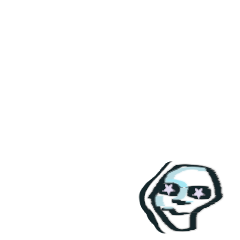
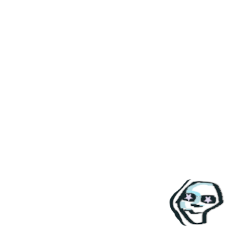
rotation update
- rotate the models
- rotate the camera in different ways (not done)
- add different scaling of models
- add ability to change transparency and size updating functions
- restructured the megarms

Changed region(s): [[0.5542, 0.6708, 0.9333, 0.9917]]

diff --git a/rarities.py b/rarities.py
@@ -2,6 +2,7 @@ from random import random, randint
 
 def generate():
     rarity = 100
+    #SPECIAL CASES:
     if random() > 0.995:
         minecraft = True
     else:
@@ -9,14 +10,14 @@ def generate():
 
     #Set probablity scores
     probs={
-        'model' :        (0.99, 0.4, 0),
+        'model' :        (0.995, 0.85, 0.5, 0),
         'snake' :        (0.98, 0.92, 0.75, 0.5, 0),
-        'speed' :        (0.85, 0.6, 0),
+        'speed' :        (0.99, 0.6, 0),
         'transparency' : (0.2, 0),
-        'color' :        (0.99, 0.96, 0.92, 0.88, 0.6, 0),
-        'spin' :         (0.99, 0.9, 0.7, 0),
+        'color' :        (0.995, 0.98, 0.97, 0.95, 0.92, 0.88, 0.3, 0),
+        'spin' :         (0.99, 0.9, 0),
         'texture' :      (0.99, 0.98, 0.95, 0),
-        'background' :   (0.6, 0.1, 0),
+        'background' :   (0.6, 0.3, 0),
         'mirror' :       (0.5, 0),
         'wireframe' :    (0.8, 0.3, 0),
         'sticker' :      (0.9999,0.999,0.995, 0.95, 0)
@@ -28,47 +29,60 @@ def generate():
     if minecraft:
         sizeNormalizer = 5
         modelType = 'box.egg'
+        scaleMod = (1,1,1)
     else:
         if modelSeed > probs['model'][0]:
             sizeNormalizer = 8
+            scaleMod = (1,1,1)
             modelType = 'monkey.egg'
         elif modelSeed > probs['model'][1]:
             sizeNormalizer = 2
+            scaleMod = (3,0.5,0.5)
+            modelType = 'Icosahedron.egg'
+        elif  modelSeed > probs['model'][2]:
+            sizeNormalizer = 2
+            scaleMod = (1,1,1)
             modelType = 'Icosahedron.egg'
         else:
-            sizeNormalizer = 5
+            sizeNormalizer = 4.5
+            scaleMod = (1,1,1)
             modelType = 'box.egg'
 
     #NUMBER OF MEGARMS, numNODES, SIZES
     snakeSeed = random()
     if snakeSeed > probs['snake'][0]:
         numSnakes=5
-        modelSize = sizeNormalizer*0.5
+        sizeMod = 0.6
         numNodes = randint(400,500)
     elif snakeSeed > probs['snake'][1]:
         numSnakes=4
-        modelSize = sizeNormalizer*0.85
+        sizeMod = 0.75
         numNodes = randint(300,400)
     elif snakeSeed > probs['snake'][2]:
         numSnakes=3
-        modelSize = sizeNormalizer*1
+        sizeMod = 1
         numNodes = randint(200,300)
     elif snakeSeed > probs['snake'][3]:
-        modelSize = sizeNormalizer*1.3
+        sizeMod = 1.1
         numNodes = randint(150,200)
         numSnakes=2
     else:
-        modelSize = sizeNormalizer*1.5
+        sizeMod = 1.2
         numNodes = randint(100,150)
         numSnakes=1
+
+    modelScale = (sizeMod * sizeNormalizer * scaleMod[0], sizeMod * sizeNormalizer * scaleMod[1], sizeMod * sizeNormalizer * scaleMod[2])
 
     speedSeed = random()
     if speedSeed > probs['speed'][0]: #SPARKLES
         speedRange = (-75,75)
+        modelSpin = 0
     elif speedSeed > probs['speed'][1]:
-        speedRange = (-15,15)
+        speedRange = (-10,10)
+        modelSpin = 2
     else:
-        speedRange = (-5,5)
+        speedRange = (-4,4)
+        modelSpin = 3.5
     lengthRange = (0,20)
 
     #COLORS
@@ -93,7 +107,21 @@ def generate():
         colors.append((0.1,0.475,0.3))
         colors.append((0.15,0.1,0.50))
         colors.append((.30,.1,0.5))
-    elif colorSeed > probs['color'][1]: #RAINBOW
+    elif colorSeed > probs['color'][1]: #zebra
+        colors.append((random(),random(),random()))
+        colors.append((random(),random(),random()))
+        colors.append((random(),random(),random()))
+        colors.append((random(),random(),random()))
+        colors.append((random(),random(),random()))
+        colors.append((random(),random(),random()))
+    elif colorSeed > probs['color'][2]: #8 randoms
+        colors.append((0,0,0))
+        colors.append((1,1,1))
+        colors.append((0,0,0))
+        colors.append((1,1,1))
+        colors.append((0,0,0))
+        colors.append((1,1,1))
+    elif colorSeed > probs['color'][3]: #RAINBOW
         colors.append((0.9,0,0))
         colors.append((0.9,0.4,0))
         colors.append((0.95,0.9,0.05))
@@ -112,7 +140,7 @@ def generate():
         colors.append((0.2,0.95,0.2))
         colors.append((0.2,0.2,0.95))
         colors.append((.55,.2,1))
-    elif colorSeed > probs['color'][2]: #RGB flash
+    elif colorSeed > probs['color'][4]: #RGB flash
         colors.append((0.1,0.2,0.35))
         colors.append((0.95,0.91,0.89))
         colors.append((1,0.4,0.25))
@@ -125,7 +153,7 @@ def generate():
         colors.append((0.95,0.91,0.89))
         colors.append((1,0.4,0.25))
         colors.append((1,0.82,0.2))
-    elif colorSeed > probs['color'][3]:
+    elif colorSeed > probs['color'][5]:
         colors.append((.55,.2,1))
         colors.append((0.9,0.4,0))
         colors.append((.55,.2,1))
@@ -134,10 +162,12 @@ def generate():
         colors.append((0.9,0.4,0))
         colors.append((.55,.2,1))
         colors.append((0.9,0.4,0))
-    elif colorSeed > probs['color'][4]:
+    elif colorSeed > probs['color'][6]:
+        colors.append((random(),random(),random()))
         colors.append((random(),random(),random()))
         colors.append((random(),random(),random()))
     else:
+        colors.append((random(),random(),random()))
         colors.append((random(),random(),random()))
 
     if len(colors) > 1:
@@ -148,17 +178,17 @@ def generate():
     else:
         transparency = True
 
-    #SPINNING
+    #CAMERA SPINNING
     spinSeed = random()
     if spinSeed > probs['spin'][0]:
-        spinSpeed = 1000
+        spinSpeed = randint(-15,15)
     elif spinSeed > probs['spin'][1]:
-        spinSpeed = 200
-    elif spinSeed > probs['spin'][2]:
-        spinSpeed = 45
+        spinSpeed = randint(-2,2)
     else:
-        spinSpeed = 20
+        spinSpeed = randint(-1,1)
         #none, zebra, multi
+    if random() > 0.5:
+        spinSpeed*-1
 
     #TEXTURES
     texSeed = random()
@@ -195,7 +225,7 @@ def generate():
 
     drawSnakes = True
 
-    if numSnakes > 1:
+    if numSnakes > 2:
         wireframeSeed = random()
         if wireframeSeed > probs['wireframe'][0] and mirror == False:
             drawWireframe = True
@@ -227,9 +257,9 @@ def generate():
     prop={
         'num_snakes' : numSnakes,
         'speed_range' : speedRange,
-        'model_size' : modelSize,
+        'model_scale' : modelScale,
         'num_snake_heads' : numNodes,
-        'num_wireframes' : 50,
+        'num_wireframes' : 60,
         'model_type' : modelType,
         'colors' : colors,
         'background_color' : backgroundColor,
@@ -239,6 +269,7 @@ def generate():
         'spin_speed' : spinSpeed,
         'draw_wireframe' : drawWireframe,
         'draw_snakes' : drawSnakes,
-        'num_stickers' : stickers
+        'num_stickers' : stickers,
+        'model_spin' : modelSpin
     }
     return prop

diff --git a/animation.py b/animation.py
@@ -2,12 +2,12 @@ import numpy as np
 from math import pi, sin, cos
 from random import random
 
-class Snake():
-    def __init__(self, startAngles,
-    angleSpeeds, lengths):
-        self.angles = np.deg2rad(startAngles)
-        self.angleSpeeds = np.deg2rad(angleSpeeds)
-        self.l = lengths
+class Megarm():
+    def __init__(self, angles, angleSpeeds, lengths, numJoints = 3):
+        self.angles = angles
+        self.angleSpeeds = angleSpeeds
+        self.lengths = lengths
+        self.numJoints = numJoints
 
     def nextFrame(self):
         #update angles with angle speeds
@@ -26,8 +26,8 @@ class Snake():
         angle_temp=0
         for t in range(1,len(self.angles)):
             angle_temp+=self.angles[t]
-            x_temp+=self.l[t-1]*sin(angle_temp)
-            z+=self.l[t-1]*cos(angle_temp)
+            x_temp+=self.lengths[t-1]*sin(angle_temp)
+            z+=self.lengths[t-1]*cos(angle_temp)
         x=x_temp*cos(self.angles[0])
         y=x_temp*sin(self.angles[0])
         self.headPosition = (x,y,z)
@@ -37,28 +37,48 @@ class MasterAnimation():
         self.prop = prop
         self.snakes = []
         self.wireframe = []
-        for i in range(prop['num_snakes']):
-            snakeProps = self.generateSnakeProps()
-            self.snakes.append(Snake(snakeProps[0],snakeProps[1],snakeProps[2]))
 
-    def generateSnakeProps(self):
+        #special boi
+        numSnakes = prop['num_snakes']
+        mirror = prop['mirror']
+
         totalLength = 46
-        angleRange = (0, 360)
-        lengthRange = (0,20) #2
+        if numSnakes < 4:
+            incrementalLength = int(totalLength/numSnakes-1)
+            for i in range(numSnakes):
+                geom = self.generateGeom((0, 360), prop['speed_range'], (numSnakes-i)*incrementalLength, 3)
+                self.snakes.append(Megarm(geom[0], geom[1], geom[2]))
+        else:
+            for i in range(numSnakes):
+                geom = self.generateGeom((0, 360), prop['speed_range'], totalLength, 3)
+                self.snakes.append(Megarm(geom[0], geom[1], geom[2]))
+
+    def generateGeom(self, angleRange, speedRange, totalLength, numJoints = 3):
+        lengthRange = (0,totalLength/numJoints) #2
         startAngles=[]
         startSpeeds=[]
         startLengths=[]
-        for j in range(4):
+        for j in range(numJoints+1):
             startAngles.append(random()*(angleRange[1]-angleRange[0])+angleRange[0])
-        for j in range(4):
+        for j in range(numJoints):
             # if j == 0:
             #     startSpeeds.append(0)
             # else:
-            startSpeeds.append(random()*(self.prop['speed_range'][1]-self.prop['speed_range'][0])+self.prop['speed_range'][0])
-        for j in range(2):
-            startLengths.append(random()*(lengthRange[1]-lengthRange[0])+lengthRange[0])
-        startLengths.append(totalLength - (startLengths[0]+startLengths[1]))
-        return (startAngles,startSpeeds,startLengths)
+            startSpeeds.append(random()*(speedRange[1]-speedRange[0])+speedRange[0])
+        tempSpeed = 0
+        for s in startSpeeds:
+            tempSpeed += np.abs(s)
+        startSpeeds.append(speedRange[1]*2 - tempSpeed)
+        if numJoints > 1:
+            for j in range(numJoints-1):
+                startLengths.append(random()*(lengthRange[1]-lengthRange[0])+lengthRange[0])
+            tempLength = 0
+            for l in startLengths:
+                tempLength += l
+            startLengths.append(totalLength - tempLength)
+        else:
+            startLengths.append(totalLength)
+        return(np.deg2rad(startAngles),np.deg2rad(startSpeeds),startLengths)
 
     def clearWireframe(self):
         self.wireframe = []

diff --git a/main.py b/main.py
@@ -2,7 +2,7 @@ from math import pi, sin, cos
 from direct.showbase.ShowBase import ShowBase
 from direct.task import Task
 import os, sys
-from panda3d.core import loadPrcFileData, LineSegs, NodePath, MeshDrawer, AntialiasAttrib,PNMImage
+from panda3d.core import loadPrcFileData, LineSegs, NodePath, MeshDrawer, LPoint3f
 import numpy as np
 from random import random, randint
 import imageio
@@ -19,6 +19,8 @@ class App(ShowBase):
         self.maxGens = maxGens
         self.maxFrames = maxFrames
         self.saveGif = saveGif
+
+        self.origin = LPoint3f((0,0,0))
 
         self.genNumber = -1
         self.currentNode = None
@@ -72,8 +74,9 @@ class App(ShowBase):
             lines.setColor(self.currentColor[0],self.currentColor[1],self.currentColor[2])
             lines.moveTo(wire[0][0],wire[0][1],wire[0][2])
             lines.drawTo(wire[1][0],wire[1][1],wire[1][2])
-            lines.setThickness(2)
+            lines.setThickness(1)
         node = lines.create()
+
         nodePath = NodePath(node)
         nodePath.reparentTo(render)
         self.anim.clearWireframe()
@@ -104,6 +107,7 @@ class App(ShowBase):
             if self.prop['texture'] != None:
                 newNode.setTexture(self.texture)
             newNode.setPos(newPos)
+            newNode.setHpr(newPos[0]*self.prop['model_spin'],newPos[1]*self.prop['model_spin'],newPos[2]*self.prop['model_spin'])
 
             #NODE COLORS
             if self.numColors > 1:
@@ -138,9 +142,11 @@ class App(ShowBase):
                 newNode.reparentTo(self.render)
             self.snakeHeads.append(newNode)
             for i in range(len(self.snakeHeads)):
-                self.snakeHeads[i].setScale(self.prop['model_size']*i/len(self.snakeHeads),
-                    self.prop['model_size']*i/len(self.snakeHeads),self.prop['model_size']*i/len(self.snakeHeads))
-                self.snakeHeads[i].setAlphaScale(i/len(self.snakeHeads))
+                alphaMod = i/len(self.snakeHeads)
+                scaleMod = i/len(self.snakeHeads)
+                finalScale = (self.prop['model_scale'][0]*scaleMod, self.prop['model_scale'][1]*scaleMod, self.prop['model_scale'][2]*scaleMod)
+                self.snakeHeads[i].setScale(finalScale[0],finalScale[1],finalScale[2])
+                self.snakeHeads[i].setAlphaScale(alphaMod)
 
             if self.prop['draw_wireframe'] and self.frameNumber%1==0:
                 self.renderWireframe(self.anim.getWireframe())
@@ -164,9 +170,10 @@ class App(ShowBase):
 
 	# Define a procedure to move the camera.
     def spinCameraTask(self, task):
-        angleDegrees = task.time * self.prop['spin_speed']
+        angleDegrees = self.frameNumber * self.prop['spin_speed']
         angleRadians = angleDegrees * (pi / 180.0)
-        self.camera.setPos(200 * sin(angleRadians), -200 * cos(angleRadians), 0)
+        radius = 210 + 20 * cos(angleRadians/2)
+        self.camera.setPos(radius * sin(angleRadians), -radius * cos(angleRadians), 0)
         self.camera.setHpr(angleDegrees, 0, 0)
         return Task.cont
 
@@ -175,5 +182,5 @@ loadPrcFileData('', 'clock-mode limited')
 loadPrcFileData('', 'clock-frame-rate 1')
 
 #loadPrcFileData('', 'window-type offscreen')
-app = App(1000, 180, True)
+app = App(1000, 200, True)
 app.run()

diff --git a/gif_compiler.py b/gif_compiler.py
@@ -25,7 +25,7 @@ def generateGif(genNumber, numFrames, numStickers=0):
         images.append(Image.open('images/'+str(genNumber)+'/'+str(i+1)+'.png').convert('RGBA'))
     if numStickers > 0:
         prevIDs = []
-        totalStickers = 5
+        totalStickers = 4
         for i in range(numStickers):
             stickerID = randint(0,totalStickers-1)
             if len(prevIDs) > 0:
